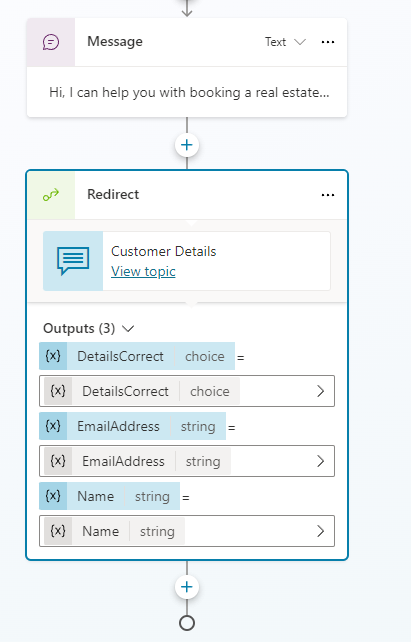
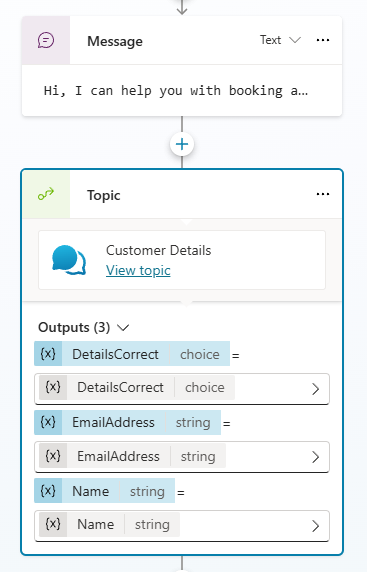
Minor update
Minor typos and improvements to lab steps

diff --git a/Instructions/Labs/01-create-copilot.md b/Instructions/Labs/01-create-copilot.md
@@ -56,6 +56,8 @@ Let’s start by using Copilot Studio to create a new agent. The agent will init
 
 1. Select **Save**.
 
+    ![Screenshot of the agent instructions in Copilot Studio.](media/copilot-studio-instructions.png)
+
 1. In the **Knowledge** section, toggle **Enable your agent to search all public websites** to **Disabled**.
 
     ![Disable web search for the agent](media/web-disabled.png)
@@ -220,7 +222,7 @@ Now that you have a working agent, you can test it to check that it is ready for
 
     ![Screenshot of Channels in Copilot Studio.](media/test-pane-options.png)
 
-1. Expand the **Test** pane and restart the conversation. Then enter the following prompt:
+1. Expand the **Test** pane and start a new test session. Then enter the following prompt:
 
     ```prompt
     What's the expense limit for a hotel stay?
@@ -241,6 +243,6 @@ Now that you’ve seen how to use Copilot Studio to create a simple agent, it’
 time to apply what you’ve learned on your own. Try creating an agent that provides answers to questions about Microsoft Copilot!
 
 - Create a new agent.
-- Use the `https://www.microsoft.com/en-us/microsoft-copilot/` website as a knowledge source.
+- Use `https://www.microsoft.com/en-us/microsoft-copilot/` and `https://learn.microsoft.com/en-us/copilot/` websites as knowledge sources.
 
 > **Tip**: If you need help, consult the [Copilot Studio documentation](https://learn.microsoft.com/microsoft-copilot-studio/) at `https://learn.microsoft.com/microsoft-copilot-studio/`.

diff --git a/Instructions/Labs/08-generative-ai.md b/Instructions/Labs/08-generative-ai.md
@@ -25,7 +25,7 @@ This exercise will take approximately **30** minutes to complete.
   
 ## Prerequisites
 
-- Must have completed **Lab: Create agent actions**
+- Must have completed **Lab: Create agent flows**
 
 ## Detailed steps
 
@@ -41,7 +41,7 @@ This exercise will take approximately **30** minutes to complete.
 
 1. Select the **Settings** button in the upper-right of the screen.
 
-1. For **Use generative AI orchestration for your agent's responses?** select **Yes**.
+1. For **Use generative AI orchestration for your agent's responses?** select **Yes - Responses will be dynamic, using available tools and knowledge as appropriate**.
 
 1. Select **Save**.
 
@@ -139,8 +139,8 @@ This exercise will take approximately **30** minutes to complete.
 
 1. If it's not open, select the **Test** icon in the upper-right of the page to open the testing panel.
 
-1. Select the **Start a new conversation** icon at the top of the testing panel.
+1. Select the **Start new test session** icon at the top of the testing panel.
 
 1. Explore the agent and see how it uses the knowledge sources e.g.
   - `Which cities have property listings?`
-  - `Which CRM does Summit Realty Group use?`
+  - `Which CRM does Summit Realty use?`

diff --git a/Instructions/Labs/03-create-copilot.md b/Instructions/Labs/03-create-copilot.md
@@ -77,7 +77,7 @@ In this exercise, you will access the Microsoft Copilot Studio portal and add kn
 
 1. Select **Settings**.
 
-1. For **Use generative AI orchestration for your agent's responses?** select **No**. This turns Orchestration off for the purpose of this lab.
+1. For **Use generative AI orchestration for your agent's responses?** select **No - Use classic orchestration, limiting responses to the content and behavior defined in your agent's topics**. This turns Orchestration off for the purpose of this lab.
 
 1. Select **Save**.
 
@@ -109,7 +109,7 @@ In this exercise, you will access the Microsoft Copilot Studio portal and add kn
 
     ![Screenshot of the Testing panel options.](../media/test-pane-options.png)
 
-1. At the top of the **Test your agent** pane, select the  **Start a new test session** icon.
+1. At the top of the **Test your agent** pane, select the  **Start new test session** icon.
 
     ![Screenshot of the Testing panel options.](../media/copilot-test-pane-start-new-conversation.png)
 

diff --git a/Instructions/Labs/04-manage-topics.md b/Instructions/Labs/04-manage-topics.md
@@ -173,7 +173,7 @@ In addition to adding updating existing nodes, you can use Copilot to add new on
 
 1. If the **Test your agent** panel is closed, select the **Test** icon in the upper-right of the page.
 
-1. Select the **Start a new test session** icon at the top of the testing panel.
+1. Select the **Start new test session** icon at the top of the testing panel.
 
     ![Screenshot of the Testing panel options.](../media/copilot-test-pane-start-new-conversation.png)
 
@@ -210,10 +210,6 @@ Topics can be created manually by adding trigger phrases.
 1. In the **Description** field, enter the following text:
 
     `Select the property and requested date and create a booking request`
-
-1. In the **Model display name** field, enter the following text:
-
-    `Book Showing`
 
 1. Select **Save**.
 

diff --git a/Instructions/Labs/07-copilot-actions.md b/Instructions/Labs/07-copilot-actions.md
@@ -67,7 +67,7 @@ Microsoft Copilot Studio can access data in Microsoft Dataverse using agent flow
 
 1. Select the **List rows** action.
 
-1. If prompted for authentication, enter `Lab connection` for **Connection name**, select **OAuth** for **Authentication Type, and select **Sign in**.
+1. If prompted for authentication, enter `Lab connection` for **Connection name**, select **OAuth** for **Authentication Type**, and select **Sign in**, and use your tenant credentials and **Allow access**.
 
     > **Note:** If you see a '**Failed to create OAuth connection**' error, you may need to allow popups in your browser.
 

diff --git a/Instructions/Labs/02-import-solution.md b/Instructions/Labs/02-import-solution.md
@@ -56,7 +56,17 @@ In this exercise, you will import a Dataverse solution into your environment tha
 
 1. Select **Publish all customizations**.
 
-### Task 1.3 – Test data
+### Task 1.3 – Set preferred solution
+
+1. Select **Solutions**.
+
+1. Select **Manage** in the *Current preferred solution* tile.
+
+1. Select **Bookings (contoso)**.
+
+1. Select **Apply**.
+
+### Task 1.4 – Test data
 
 1. In the left navigation of the Bookings solution, select the **Objects** tab.
 

diff --git a/Instructions/Labs/05-manage-nodes.md b/Instructions/Labs/05-manage-nodes.md
@@ -87,7 +87,7 @@ The conversational flow in a topic can be created manually by adding nodes.
 
 ### Task 2.3 - Add condition node
 
-1. Select the the **+** icon under the **Redirect** node and select **Add a condition**.
+1. Select the the **+** icon under the **Topic** node and select **Add a condition**.
 
 1. In the **Condition** node, select the **DetailsCorrect** variable.
 
